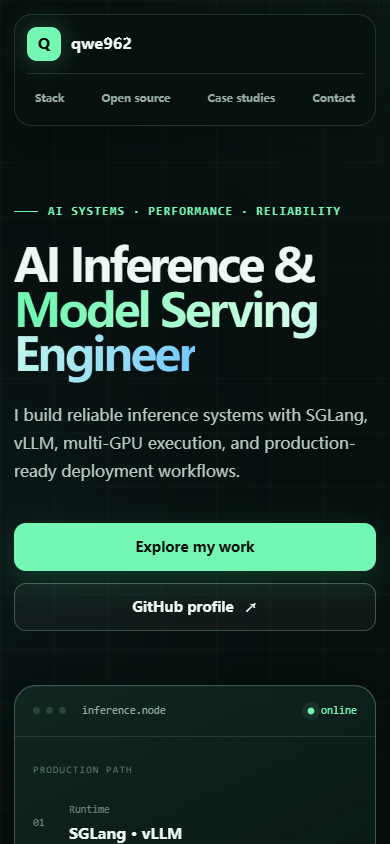
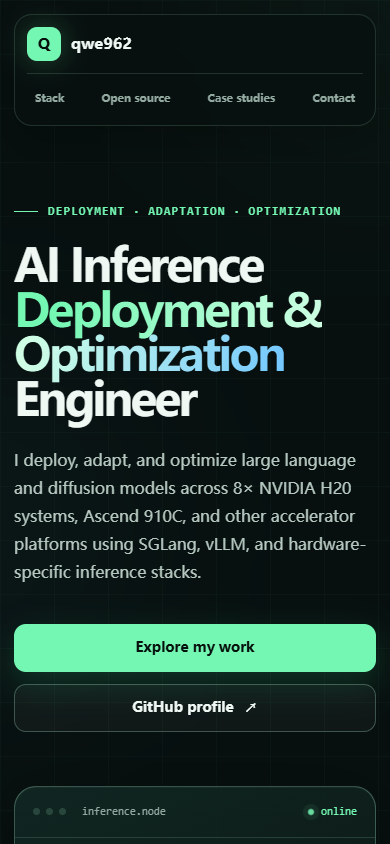
docs: highlight cross-accelerator deployment experience

diff --git a/index.html b/index.html
@@ -6,13 +6,13 @@
     <meta name="theme-color" content="#07100f">
     <meta
       name="description"
-      content="AI Inference & Model Serving Engineer focused on SGLang, vLLM, multi-GPU inference, and production deployment."
+      content="AI Inference Deployment & Optimization Engineer focused on SGLang, vLLM, NVIDIA H20, Ascend 910C, and cross-accelerator model adaptation."
     >
     <meta property="og:type" content="website">
-    <meta property="og:title" content="qwe962 — AI Inference & Model Serving Engineer">
+    <meta property="og:title" content="qwe962 — AI Inference Deployment & Optimization Engineer">
     <meta
       property="og:description"
-      content="SGLang, vLLM, multi-GPU inference, and production model serving."
+      content="Large-model deployment, adaptation, and optimization across NVIDIA H20, Ascend 910C, SGLang, and vLLM."
     >
     <meta property="og:url" content="https://qwe962.github.io/">
     <meta property="og:image" content="https://qwe962.github.io/assets/site-preview.png">
@@ -24,7 +24,7 @@
       document.documentElement.classList.add('js');
     </script>
     <script src="script.js" defer></script>
-    <title>qwe962 — AI Inference &amp; Model Serving Engineer</title>
+    <title>qwe962 — AI Inference Deployment &amp; Optimization Engineer</title>
   </head>
   <body>
     <a class="skip-link" href="#main-content">Skip to content</a>
@@ -49,14 +49,16 @@
     <main id="main-content">
       <section class="hero section-shell" id="top">
         <div class="hero-copy">
-          <p class="eyebrow reveal">AI systems · performance · reliability</p>
+          <p class="eyebrow reveal">Deployment · adaptation · optimization</p>
           <h1 class="reveal">
-            AI Inference &amp;<br>
-            <span>Model Serving Engineer</span>
+            AI Inference<br>
+            <span>Deployment &amp;<br>Optimization</span><br>
+            Engineer
           </h1>
           <p class="hero-summary reveal">
-            I build reliable inference systems with SGLang, vLLM, multi-GPU
-            execution, and production-ready deployment workflows.
+            I deploy, adapt, and optimize large language and diffusion models
+            across 8× NVIDIA H20 systems, Ascend 910C, and other accelerator
+            platforms using SGLang, vLLM, and hardware-specific inference stacks.
           </p>
           <div class="hero-actions reveal">
             <a class="button button-primary" href="#case-studies">Explore my work</a>
@@ -95,10 +97,10 @@
             <div class="pipeline-row">
               <span class="pipeline-index">02</span>
               <div>
-                <span class="pipeline-name">Compute</span>
-                <strong>8× NVIDIA H20</strong>
+                <span class="pipeline-name">Accelerators</span>
+                <strong>H20 · Ascend 910C</strong>
               </div>
-              <span class="pipeline-state">SCALE</span>
+              <span class="pipeline-state">ADAPT</span>
             </div>
             <div class="pipeline-line" aria-hidden="true"></div>
             <div class="pipeline-row">
@@ -122,19 +124,20 @@
 
       <section class="signal-bar" aria-label="Engineering focus">
         <div class="signal-track">
-          <span><strong>8× H20</strong> multi-GPU deployment</span>
-          <span><strong>SGLang + vLLM</strong> model serving</span>
-          <span><strong>End to end</strong> production validation</span>
+          <span><strong>8× H20</strong> multi-GPU systems</span>
+          <span><strong>Ascend 910C</strong> model adaptation</span>
+          <span><strong>SGLang + vLLM</strong> reliable serving</span>
         </div>
       </section>
 
       <section class="content-section section-shell" id="stack">
         <div class="section-heading reveal">
           <p class="section-number">01 / TECHNICAL STACK</p>
-          <h2>Tools for the complete inference path.</h2>
+          <h2>Tools for heterogeneous inference systems.</h2>
           <p>
-            From performance-critical kernels to authenticated HTTP services,
-            I work across the layers that make model inference dependable.
+            From accelerator runtimes and model compatibility to authenticated
+            HTTP services, I work across the layers that make inference portable
+            and dependable.
           </p>
         </div>
 
@@ -154,6 +157,8 @@
             <div class="tag-list">
               <span>PyTorch</span>
               <span>CUDA</span>
+              <span>H20</span>
+              <span>Ascend 910C</span>
             </div>
           </article>
 
@@ -239,14 +244,15 @@
               <span>01</span>
               <span>DEPLOYMENT SYSTEMS</span>
             </div>
-            <h3>Serving open-source models on 8× NVIDIA H20</h3>
+            <h3>Deploying and adapting models across H20 and Ascend 910C</h3>
             <p>
-              Hands-on deployment experience across MiniMax, DeepSeek, and Qwen:
-              model artifacts, runtime compatibility, multi-GPU launch, container
-              configuration, and end-to-end API validation.
+              Extensive, repeated deployment and adaptation work for MiniMax,
+              DeepSeek, and Qwen on 8-GPU NVIDIA H20 systems, Ascend 910C, and
+              other accelerator platforms—covering model compatibility, runtime
+              integration, containers, service startup, and real inference validation.
             </p>
             <div class="case-tags">
-              <span>H20</span><span>Multi-GPU</span><span>Model Serving</span>
+              <span>8× H20</span><span>Ascend 910C</span><span>Model Adaptation</span>
             </div>
           </article>
 
@@ -270,14 +276,14 @@
               <span>03</span>
               <span>CAPACITY &amp; DIAGNOSIS</span>
             </div>
-            <h3>GPU memory, Tensor Parallel, and deployment diagnosis</h3>
+            <h3>Accelerator memory, parallelism, and deployment diagnosis</h3>
             <p>
-              Capacity estimation and evidence-driven debugging for CUDA errors,
-              OOM failures, parallel topology, ports, containers, and runtime
-              configuration.
+              Capacity estimation and evidence-driven debugging for GPU and NPU
+              memory pressure, CUDA and runtime errors, OOM failures, parallel
+              topology, ports, containers, and framework configuration.
             </p>
             <div class="case-tags">
-              <span>KV Cache</span><span>Tensor Parallel</span><span>CUDA</span>
+              <span>KV Cache</span><span>Tensor Parallel</span><span>GPU / NPU</span>
             </div>
           </article>
         </div>
@@ -286,7 +292,7 @@
       <section class="contact-section section-shell reveal" id="contact">
         <div>
           <p class="section-number">04 / CONTACT</p>
-          <h2>Let’s make inference faster, safer, and easier to operate.</h2>
+          <h2>Let’s make inference portable, faster, and easier to operate.</h2>
         </div>
         <div class="contact-copy">
           <p>

diff --git a/README.md b/README.md
@@ -1,6 +1,6 @@
 # qwe962.github.io
 
-Personal portfolio for an AI Inference & Model Serving Engineer, focused on SGLang, vLLM, multi-GPU inference, and production deployment.
+Personal portfolio for an AI Inference Deployment & Optimization Engineer, focused on large-model deployment, adaptation, and reliable serving across NVIDIA H20, Ascend 910C, and other accelerator platforms.
 
 [View the live site](https://qwe962.github.io/)
 
@@ -15,7 +15,8 @@ Personal portfolio for an AI Inference & Model Serving Engineer, focused on SGLa
 - Responsive single-page design for desktop and mobile
 - Lightweight CSS and JavaScript with no external runtime dependencies
 - Reduced-motion support and accessible navigation
-- Technical stack, open-source work, and production case studies
+- Heterogeneous accelerator deployment and model-adaptation experience
+- Technical stack, open-source work, and production-oriented case studies
 - Direct deployment from GitHub Pages
 
 ## Local preview
@@ -42,11 +43,11 @@ No build command or GitHub Actions workflow is required.
 **Description**
 
 ```text
-AI Inference & Model Serving Engineer portfolio — SGLang, vLLM, multi-GPU inference, and production deployment.
+AI inference deployment and optimization portfolio — SGLang, vLLM, NVIDIA H20, Ascend 910C, and model adaptation.
 ```
 
 **Topics**
 
 ```text
-ai-inference, model-serving, sglang, vllm, cuda, pytorch, nvidia-gpu, multi-gpu, portfolio, github-pages
+ai-inference, model-serving, model-adaptation, sglang, vllm, cuda, pytorch, nvidia-h20, ascend-910c, npu, multi-gpu, portfolio, github-pages
 ```
